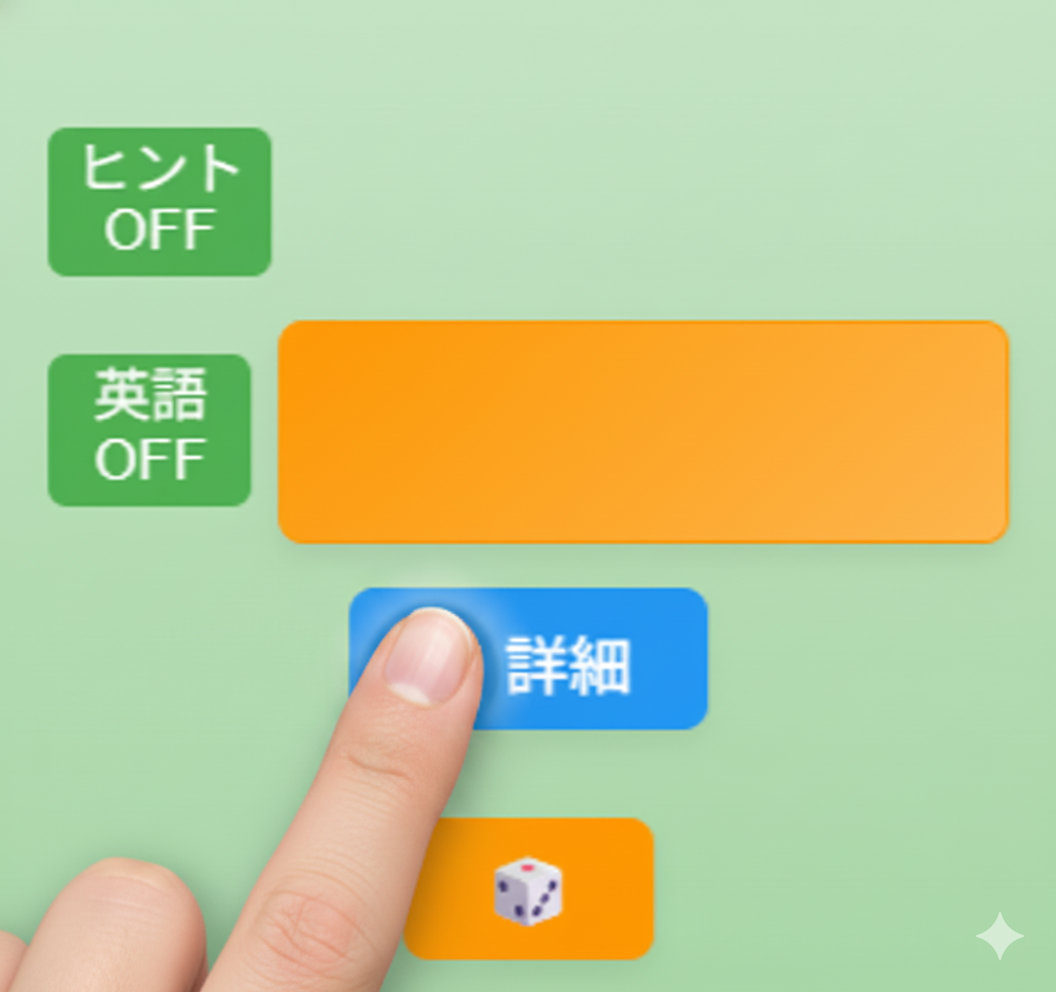
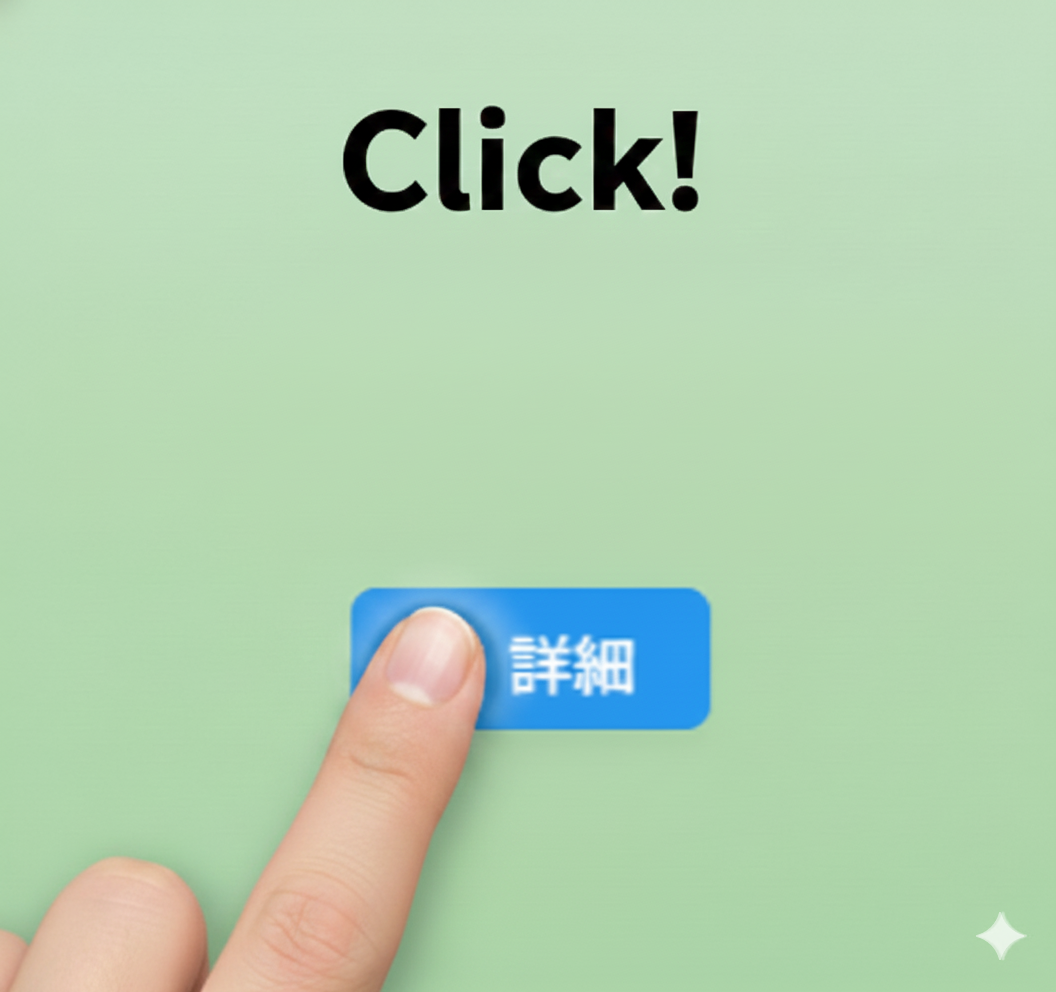
Add detail button explanation and update button image
Added a new UI hint describing the '詳細' button functionality in index.html, informing users that pressing it reveals hidden English text. Updated the button.png image to reflect UI changes.

diff --git a/training/index.html b/training/index.html
@@ -775,6 +775,11 @@ function handleLogout() {
       <span style="display: inline-flex; align-items: center; justify-content: center; background: #ff9800; color: white; border: none; padding: 3px 6px; border-radius: 3px; font-size: 10px; font-weight: bold; margin-right: 4px;">🎲</span>
       <span>で練習（一部～全部）</span>
     </span>
+    <span style="display: flex; align-items: center; gap: 4px;">
+      <span style="display: inline-flex; align-items: center; justify-content: center; width: 20px; height: 20px; background: linear-gradient(135deg, #667eea 0%, #764ba2 100%); color: white; border-radius: 50%; font-weight: bold; font-size: 11px;">④</span>
+      <span style="display: inline-flex; align-items: center; justify-content: center; background: #2196f3; color: white; border: none; padding: 3px 6px; border-radius: 3px; font-size: 10px; font-weight: bold; margin-right: 4px;">▼ 詳細</span>
+      <span>を押すと隠れている英語が出ます</span>
+    </span>
   </div>
 </div>
 
